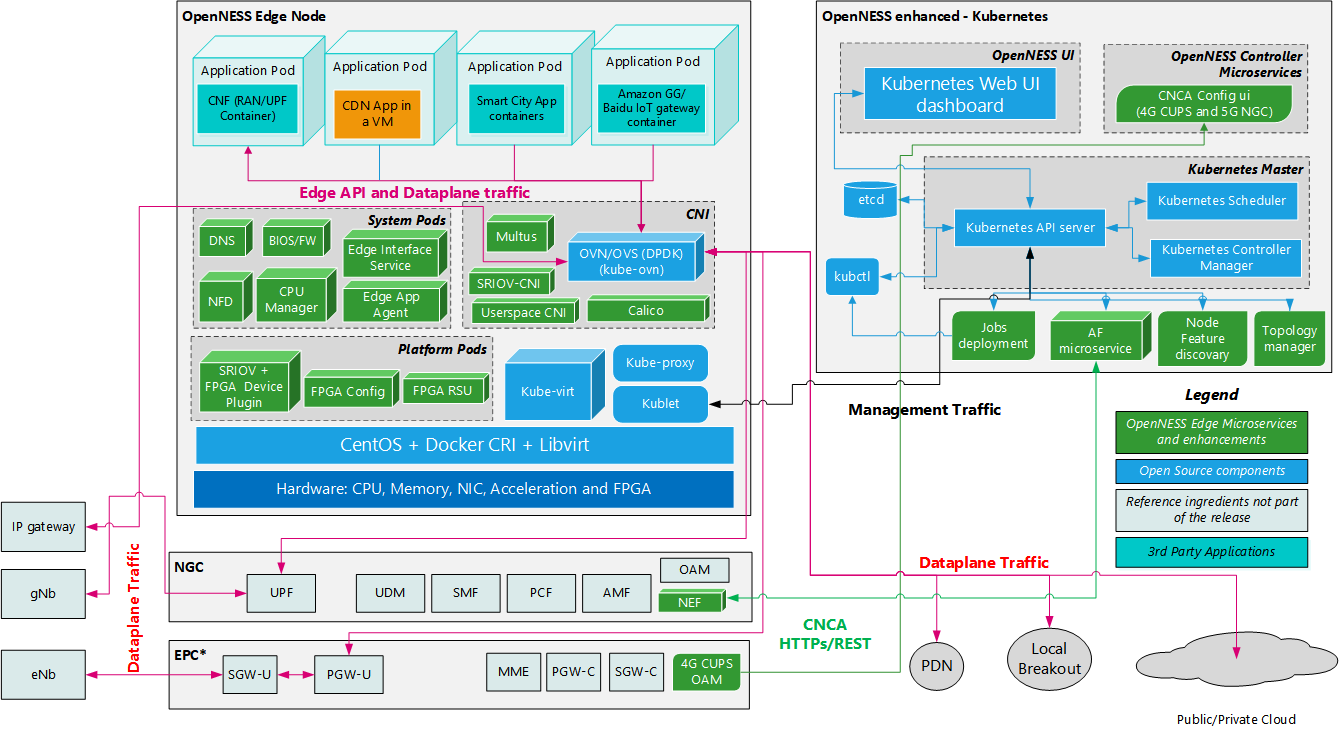
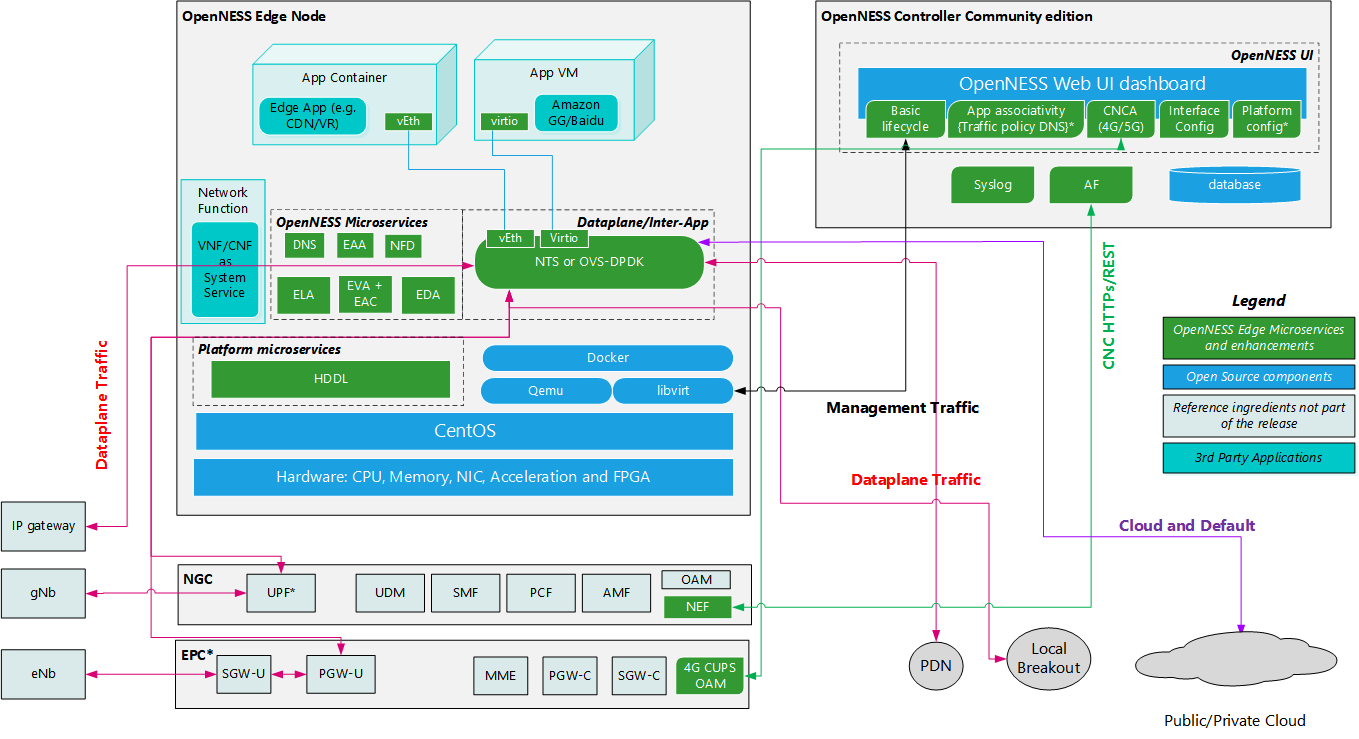
Arch update20032 (#204)

diff --git a/doc/architecture.md b/doc/architecture.md
@@ -1,6 +1,6 @@
 ```text
 SPDX-License-Identifier: Apache-2.0
-Copyright (c) 2019 Intel Corporation
+Copyright (c) 2020 Intel Corporation
 ```
 
 # OpenNESS Architecture and Solution overview
@@ -9,8 +9,8 @@ Copyright (c) 2019 Intel Corporation
     - [Key Terminologies defining OpenNESS](#key-terminologies-defining-openness)
   - [Overview](#overview)
     - [OpenNESS Controller Community Edition](#openness-controller-community-edition)
-      - [Details of Edge Controller Microservices functionality in Native deployment mode:](#details-of-edge-controller-microservices-functionality-in-native-deployment-mode)
-      - [Details of Edge Controller Microservices functionality in Infrastructure deployment mode:](#details-of-edge-controller-microservices-functionality-in-infrastructure-deployment-mode)
+      - [Details of Edge Controller Microservices functionality in Native deployment mode](#details-of-edge-controller-microservices-functionality-in-native-deployment-mode)
+      - [Details of Edge Controller Microservices functionality in Infrastructure deployment mode](#details-of-edge-controller-microservices-functionality-in-infrastructure-deployment-mode)
       - [Edge Application Onboarding](#edge-application-onboarding)
         - [Application onboarding in OpenNESS Native deployment mode](#application-onboarding-in-openness-native-deployment-mode)
         - [Application onboarding in OpenNESS Infrastructure deployment mode](#application-onboarding-in-openness-infrastructure-deployment-mode)
@@ -25,6 +25,12 @@ Copyright (c) 2019 Intel Corporation
   - [Deployment Scenarios](#deployment-scenarios)
     - [On-Premises Edge Deployment Scenario](#on-premises-edge-deployment-scenario)
     - [Network Edge Deployment Scenario](#network-edge-deployment-scenario)
+  - [OpenNESS Support for Deployment flavors](#openness-support-for-deployment-flavors)
+    - [RAN node flavor](#ran-node-flavor)
+    - [Core node flavor](#core-node-flavor)
+    - [Application node flavor](#application-node-flavor)
+    - [OnPremises application node flavor](#onpremises-application-node-flavor)
+    - [OnPremises all-in-one node - CERA](#onpremises-all-in-one-node---cera)
   - [Enhanced Platform Awareness through OpenNESS](#enhanced-platform-awareness-through-openness)
   - [OpenNESS Edge Node Applications](#openness-edge-node-applications)
     - [Producer Application](#producer-application)
@@ -59,7 +65,7 @@ Because it is an open source platform, OpenNESS enables operators, ISVs, and OSV
 ### Key Terminologies defining OpenNESS 
 - **Orchestration**: Orchestration in the context of OpenNESS refers to exposing northbound APIs for Deploying, Managing, Automating the Edge compute cluster and Applications that run on the cluster. E.g. OpenNESS northbound APIs that can be used by Orchestrators like ONAP for managing the OpenNESS edge solution.  
 - **Edge Services**: Edge Services in the context of OpenNESS refers to the Applications that service end-user traffic and Applications that provide services to other Edge compute Applications. E.g. CDN is an Edge application that services end-user traffic whereas Transcoding services is an application that provides service to CDN application.  
-- **Network Functions**: Network Functions in the context of OpenNESS refers to typical Container Networking Functions (CNFs) that enable edge cloud deployment in Wireless access, Wireline and WiFi deployments. E.g. 5G UPF is as CNF supports steering application traffic towards edge cloud applications, gNodeB that servers User equipment (UE) in 5G NR millimeter wave or Sub6 deployments etc. 
+- **Network Functions**: Network Functions in the context of OpenNESS refers to typical Container Networking Functions (CNFs) that enable edge cloud deployment in Wireless access, Wireline and WiFi deployments. E.g. 5G UPF is as CNF supports steering application traffic towards edge cloud applications, gNodeB that serves User equipment (UE) in 5G NR millimeter wave or Sub6 GHz deployments etc. 
 - **Network platform**: Network platform in the context of OpenNESS refers to nodes that are deployed in Network or On-Premises edge compute processing. These are typically COTS platforms which can host both Applications and VNFs. 
 - **Access technologies**: Access technologies in the context of OpenNESS refers to various types of traffic that OpenNESS solution can be handled. They include 5G, LTE (GTP/IP), Wireline (IP) and Wifi (IP).  
 - **Multi Cloud**: Multi Cloud in the context of OpenNESS refers to support in OpenNESS to host multiple Public or Private cloud application on the same node or in the OpenNESS compute cluster. These cloud applications can come from e.g. Amazon AWS Greengrass, Baidu cloud etc. 
@@ -107,7 +113,7 @@ Hence OpenNESS Controller deployment is described in these two modes:
 -  <b>OpenNESS Native deployment</b>: OpenNESS deployed using controller which interfaces NFV infrastructure directly (libvirt/docker runtime)
 -  <b>OpenNESS Infrastructure deployment</b>: OpenNESS deployed using Kubernetes as an orchestrator 
 
-#### Details of Edge Controller Microservices functionality in Native deployment mode: 
+#### Details of Edge Controller Microservices functionality in Native deployment mode 
 - **Web UI front end**: Reference HTML5 based web front end for Administrator management of Edge Nodes.
 - **User account management**: Create administrator and user accounts for Edge Node management. 
 - **Edge compute application catalogue**: Provide capability of adding applications to Controller catalogue. 
@@ -117,21 +123,21 @@ Hence OpenNESS Controller deployment is described in these two modes:
   - Configuration of interfaces and microservices on Edge Nodes 
   - Configuration of traffic policy for the interfaces including Local Breakout (LBO) interface 
 - **Edge Application Lifecycle Management**: Support applications through their lifecycle: 
-  - Expose the silicon micro architecture features on CPU, Accelerator, Network interface etc. through  Enhanced Platform Awareness (EPA) framework to the applications for lower overhead and high performance execution. 
+  - Expose the silicon micro architecture features on CPU, HW Accelerator, Network interface etc. through  Enhanced Platform Awareness (EPA) framework to the applications for lower overhead and high performance execution. 
   - Deploy edge compute applications from the image repository 
   - Configure the Edge compute application specific Traffic policy 
   - Configure the Edge compute application specific DNS policy 
-- **Node Feature Discovery (NFD)**: Contains two microservice. One on the controller (master) and one on the edge nodes (worker). NFD workers gets the hardware and software features on the edge node and the information is passed on to the NFD Master on the controller node. This information can be used by the user to deploy the applications to the edge node which meets the resource requirement. This ensures the reliable performance.
-- **Enhanced Platform Awareness**: is a subsystem of the application life cycle management that provides users to provide the key hardware or software features that needs to be made available to the applications when deployed on the edge node. The user is presented with a key:Value pair to choose from the supported EPA features. NFD when combined with EPA provides powerful mechanism for deployment for achieving application performance reliability. 
+- **Node Feature Discovery (NFD)**: Contains two microservices. One on the controller (master) and one on the edge nodes (worker). NFD workers gets the hardware and software features on the edge node and the information is passed on to the NFD Master on the controller node. This information can be used by the user to deploy the applications to the edge node which meets the specific resource requirement. This ensures  reliable performance.
+- **Enhanced Platform Awareness**: is a subsystem of the application life cycle management that enables users to provide key hardware or software features that needs to be made available to the applications when deployed on the edge node. The user is presented with a key:Value pair to choose from the supported EPA features. NFD when combined with EPA provides a powerful mechanism for achieving application performance reliability. 
 - **Edge virtualization infrastructure management**: Use underlying virtualization infrastructure, whether directly via libvirt or Docker, or indirectly via Kubernetes, to manage the Edge Node platform and applications. 
 - **Telemetry**: Get basic edge compute microservices telemetry from connected Edge Nodes.
 
 The Controller microservices make extensive use of the Go programming language and its runtime libraries.
 
-#### Details of Edge Controller Microservices functionality in Infrastructure deployment mode:
+#### Details of Edge Controller Microservices functionality in Infrastructure deployment mode
 - **Core Network Configuration**: Configure the access network (e.g., LTE/CUPS, 5G) control plane. 
 - **Telemetry**: Get basic edge compute microservices telemetry from connected Edge Nodes.
-- **Microservices and Enhancements for K8s master**: Set of microservice as daemon set deployed on Master to enable Cloudnative deployment. E.g. NFD (master), SRI-OV device plugin, etc. 
+- **Microservices and Enhancements for K8s master**: Set of microservice as daemon set deployed on Master to enable deployment. E.g. NFD (master), SRI-OV device plugin, etc. 
 
 OpenNESS when deployed using Kubernetes supports key features that expose the silicon micro architecture features of the platform to the applications and network functions  to achieve better and reliable performance. This will be described in the Enhanced Platform Awareness (EPA) section later in the document. 
 
@@ -157,7 +163,7 @@ OpenNESS Controller is used to onboard an application to the OpenNESS Edge Node.
 5. User starts the Application, which kick starts the Container/Pod/VM. 
 
 ##### Application onboarding in OpenNESS Infrastructure deployment mode
-OpenNESS users need to use the Kubernetes Master to onboard and application to the OpenNESS Edge Node. OpenNESS support applications that can run in a docker container. Docker image tar.gz. The image source can be a docker registry or HTTPS image repository. The image repository can be an external image server or one that can be deployed on the controller. The figure below shows the steps involved in application onboarding.  
+OpenNESS users need to use the Kubernetes Master to onboard and application to the OpenNESS Edge Node. OpenNESS support applications that can run in a docker container (Docker image tar.gz). The image source can be a docker registry or HTTPS image repository. The image repository can be an external image server or one that can be deployed on the controller. The figure below shows the steps involved in application onboarding.  
 
  ![Edge Application Onboarding](arch-images/openness_k8sapponboard.png)
 
@@ -195,17 +201,12 @@ Details of Edge Node Microservices functionality:
 - **Edge Node Virtualization infrastructure**: Receive commands from the controller/NFV infrastructure managers to start and stop Applications. This functionality is implemented in the EVA (Edge virtualization Agent) microservice and is implemented in Go lang. 
 - **Edge application traffic policy**: Interface to set traffic policy for application deployed on the Edge Node. This functionality is implemented in the EDA (Edge Dataplane Agent) microservice and is implemented in Go lang. 
 - **Dataplane Service**: Steers traffic towards applications running on the Edge Node or the Local Break-out Port.   
-   
-  <b>OVN/OVS-DPDK</b>
-  - The primary dataplane that is supported in native mode is OVN/OVS-DPDK. 
-  - OVN manages the IP address allocated to the applications 
-  - In this mode both north-south and east-west traffic is supported by OVS-DPDK.   
-  - vEth pair is used as interface for container and vitrio for VMs 
-  
-  <b>NTS</b>
-  - As a secondary option specifically targeted at S1u deployment NTS is supported. 
+ 
+   <b>NTS</b>
+  - NTS (Network Transport Service) is the primary dataplane supported  
+  - Its mainly developed to support S1u deployments 
   - When NTS is used as Dataplane OVS-DPDK can be used as inter-app service. 
-  - Utilizing the Data Plane NTS (Network Transport Service), which runs on every Edge Node. It is implemented in C lang using DPDK for high performance IO. This is the recommended dataplane when incoming and outgoing flows is mix of pure IP + S1u (GTPu). 
+  - Utilizing the Data Plane NTS (Network Transport Service), which runs on every Edge Node. It is implemented in C lang using DPDK for high performance IO. This is the recommended dataplane when incoming and outgoing flows are a mix of pure IP + S1u (GTPu). 
     - Provide Reference ACL based Application specific packet tuple filtering 
     - Provide reference GTPU base packet learning for S1 deployment 
     - Provide reference Simultaneous IP and S1 deployment 
@@ -219,6 +220,16 @@ Details of Edge Node Microservices functionality:
     - Dedicated interface created for dataplane based on vhost-user for VM, dpdk-kni for Containers
     - Container or VM default Interface can be used for Inter-App, management and Internet access from application 
     - Dedicated OVS-DPDK interface for inter-apps communication can be created in case of On-Premises deployment. 
+  
+<b>OVN/OVS-DPDK</b>
+  - The secondary dataplane that is supported in native mode is OVN/OVS-DPDK. 
+  - For non-S1u deployments this should be the dataplane of choice 
+  - OVN manages the IP addresses allocated to the applications 
+  - In this mode both north-south and east-west traffic is supported by OVS-DPDK.   
+  - vEth pair is used as interface for container and vitrio for VMs 
+
+>Note: In the future releases OVN/OVS-DPDK will be primary dataplane supported. 
+
 - **Application Authentication**: Ability to authenticate an Edge compute application deployed from the Controller so that application can avail/call Edge Application APIs. Only applications that intend to call the Edge Application APIs need to be authenticated. TLS certificate based Authentication is implemented. 
 
 ![OpenNESS Application Authentication](arch-images/openness_appauth.png)
@@ -245,8 +256,8 @@ Details of Edge Node Microservices functionality:
     - Implemented using [kube-ovn](https://github.com/alauda/kube-ovn)
     - Provides IP 5-tuple based flow filtering and forwarding
     - Same Interface can be used for Inter-App, management, Internet and Dataplane interface
-- **Application Authentication**: Ability to authenticate Edge compute application deployed from Controller so that application can avail/call Edge Application APIs. Only applications that intend to call the Edge Application APIs need to be authenticated. TLS certificate based Authentication is implemented. 
-- **Microservices and Enhancements for node**: Set of microservice as daemon/replica set deployed on node to enable Cloudnative deployment. E.g. NFD (worker), multus, SRI-OV device plugin, etc. 
+- **Application Authentication**: Ability to authenticate Edge compute application deployed from the Controller so that the application can avail/call of Edge Application APIs. Only applications that intend to call the Edge Application APIs need to be authenticated. TLS certificate based Authentication is implemented. 
+- **Microservices and Enhancements for node**: Set of microservice as daemon/replica set deployed on node to enable Cloud Native deployment. E.g. NFD (worker), multus, SRI-OV device plugin, etc. 
 
 ![OpenNESS Application Authentication](arch-images/openness_k8sappauth.png)
 
@@ -272,7 +283,7 @@ API endpoint for edge applications is implemented in the EAA (Edge Application A
 - **Edge Node telemetry**: Utilizing the rsyslog, all OpenNESS microservices send telemetry updates which includes the logging and packet forwarding statistics data from the dataplane. This is also the mechanism that is encouraged for OpenNESS users for Debugging and Troubleshooting. 
 
 **OpenNESS Edge Node Resource usage**: 
-- All non-critical/non-realtime microservices on the OpenNESS Edge Node execute OS core typically Core 0.
+- All non-critical/non-realtime microservices on the OpenNESS Edge Node execute on OS core typically Core 0.
 - Dataplane NTS and DPDK PMD thread requires a dedicated core/thread for high performance.
 - Dataplane OVS-DPDK requires dedicated core/thread for high performance.
   - DPDK library is used for the dataplane implementation 1G/2M hugepages support is required on the host. 
@@ -325,7 +336,7 @@ Certain On-Premises Edge deployments might not have a dedicated infrastructure m
   
 ![On-Premises Edge compute](arch-images/openness_onprem.png)
 
-_Figure - On-Premises Edge Deployment Scenario without external Orchestrator_
+_Figure - On-Premises Edge Deployment Scenario without external Orchestrator_ 
 
 ### Network Edge Deployment Scenario
 The network edge deployment scenario is depicted in Figure below. In this scenario, Edge Nodes are located  in facilities owned by a network operator (e.g., a central office, Regional Data Center), and to be part of a data network including access network (4G, 5GNR), core network (EPC, NGC), and edge computing infrastructure owned by a network operator. For economy of scale, this network is likely to be multi-tenant, and to be of very large scale (a national network operator may have thousands, or tens of thousands, of Edge Nodes). This network is likely to employ managed virtualization (e.g., OpenStack, Kubernetes) and be integrated with an operations and support system through which not only the edge computing infrastructure, but the network infrastructure, is managed.
@@ -344,6 +355,36 @@ In this mode OVN/OVS can support:
 
 _Figure - Network Edge Deployment Scenario with OVS as dataplane_
 
+## OpenNESS Support for Deployment flavors  
+Having looked at the Deployment scenarios let us now look a the individual Deployment flavors supported by OpenNESS. Deployment flavors here refers to the types of nodes that typically are deployed at the edge using OpenNESS. Flavors are mainly categorized by the workloads that is running on the node. Below are the example of Flavors supported on the network edge:
+
+### RAN node flavor 
+RAN node here typically refers to RAN DU and CU 4G/5G nodes deployed on the edge or far edge. In some cases DU might be integrated in to the radio. The example RAN deployment flavor uses FlexRAN as reference DU. 
+
+![RAN node flavor](arch-images/openness-flexran.png)
+
+### Core node flavor 
+Core nodes here typically refers to User plane and Control plane Core workloads for 4G and 5G deployed on the edge and  central location. In most of the edge deployments UPF/SPGW-U plane is located on the edge along with the applications and services. For the ease of representation the diagram shows how OpenNESS can be used to deploy both User plane and Control plane Core nodes. 
+
+![Core node flavor](arch-images/openness-core.png)
+
+### Application node flavor 
+Application nodes here typically refers to nodes running edge applications and services. The Applications can be Smart City, CDN, AR/VR, Cloud Gaming, etc. In the example flavor below Smart City application pipeline is used.  
+
+![Application node flavor](arch-images/openness-ovc.png)
+
+Below are the example flavors for the On-premises deployment: 
+
+### OnPremises application node flavor 
+OnPremises node typically host userplane core network function and edge applications.   
+
+![OnPremises application node flavor](arch-images/openness-onprem.png)
+
+### OnPremises all-in-one node - CERA 
+CERA (Converged Edge Reference Architecture) is another flavor of OnPremises where along with userplane even the Wireless access/RAN is part of the node. 
+
+![OnPremises CERA node flavor](arch-images/openness-cera.png)
+
 ## Enhanced Platform Awareness through OpenNESS 
 Enhanced Platform Awareness (EPA) represents a methodology and a related suite of changes across multiple layers of the orchestration stack targeting intelligent platform capability, configuration & capacity consumption. EPA features include Huge Pages support, NUMA topology awareness, CPU pinning, integration with OVS-DPDK, support for I/O Pass-through via SR-IOV, HDDL support, FPGA resource allocation support and many others.
 
@@ -353,8 +394,8 @@ OpenNESS provides a one-stop solution to integrate key EPA features that are cri
 
 Edge Compute EPA- feature for Network edge and availability for CNF, Apps and Services on the edge
 - CPU Manager: Support deployment of a POD with dedicated pinning using CPU manager for K8s
-- SRIOV NIC: Support deployment of a POD with dedicated SRIOV Virtual Function (VF) from Network Interface Card (NIC)
-- SRIOV FPGA: Support deployment of a POD with dedicated SRIOV VF from FPGA (Demonstrated through Intel® FPGA Programmable Acceleration Card PAC N3000 with FPGA IP Wireless 5G FEC/LDPC)
+- SR-IOV NIC: Support deployment of a POD with dedicated SR-IOV Virtual Function (VF) from Network Interface Card (NIC)
+- SR-IOV FPGA: Support deployment of a POD with dedicated SR-IOV VF from FPGA (Demonstrated through Intel® FPGA Programmable Acceleration Card PAC N3000 with FPGA IP Wireless 5G FEC/LDPC)
 - Topology Manager: Supports k8s to manage the resources allocated to workloads in a Non-uniform memory access (NUMA) topology-aware manner
 - BIOS/Firmware Configuration service: Use intel syscfg tool to build a Pod that is scheduled by K8s as a job that configures the BIOS/FW with the given specification
 - Hugepages: Support for allocation of 1G/2M huge pages to the Pod. Huge page allocation is done through K8s
@@ -368,8 +409,8 @@ Edge Compute EPA- feature for Network edge and availability for CNF, Apps and Se
 Edge Compute EPA- feature for On-Premises edge 
 - Support for allocation of Intel® Movidius™ VPUs to the OnPrem applications running in Docker containers.
 - Support for dedicated core allocation to application running as VMs or Containers 
-- Support for dedicated SRIOV VF allocation to application running in VM or containers 
-> Note: when using SRIOV VFs in containers the VF is bound to the kernel driver. 
+- Support for dedicated SR-IOV VF allocation to application running in VM or containers 
+> Note: when using SR-IOV VFs in containers the VF is bound to the kernel driver. 
 - Support for system resource allocation into the application running as container 
   - Mount point for shared storage 
   - Pass environment variables 
@@ -377,13 +418,13 @@ Edge Compute EPA- feature for On-Premises edge
 - Non-Privileged Container: Support deployment of non-privileged containers  
 
 ## OpenNESS Edge Node Applications
-OpenNESS Applications are onboarded and provisioned on the Edge Node through OpenNESS Controller in Native mode and K8s master in K8s mode. In K8s mode OpenNESS also supports onboarding of the Network Functions like RAN, Core, Firewall, etc. 
+OpenNESS Applications are onboarded and provisioned on the Edge Node through OpenNESS Controller in Native mode, and through K8s master in K8s mode. In K8s mode OpenNESS also supports onboarding of the Network Functions like RAN, Core, Firewall, etc. 
 
 OpenNESS application can be categorized in different ways depending on the scenarios. 
 
 - Depending on the OpenNESS APIs support 
   - Edge Cloud applications: Applications calling EAA APIs for providing or consuming services on the edge compute along with servicing end-users traffic 
-  - Unmodified cloud applications: Applications not availing of any services on the edge compute just servicing end-user traffic 
+  - Unmodified cloud applications: Applications not availing of any services on the edge compute, just servicing end-user traffic 
 
 - Depending on the Application Execution platform 
   - Application running natively on Edge Node in a VM/Container provisioned by the OpenNESS controller 
@@ -501,7 +542,7 @@ OpenNESS controller community edition supports configuration of the 5G Applicati
 
 _Figure - OpenNESS 5G end-to-end test setup_
 
-Following are the features supported by 5G Components of OpenNESS (AF, NEF, CNCA, WEB UI)
+Features supported by 5G Components of OpenNESS (AF, NEF, CNCA, WEB UI):
 
 Traffic Influence Submission API support : 3GPP 23.502  Sec. 52.6.7 Traffic Influence Service
 -	AF: Added support for traffic influence submission northbound API 
@@ -634,6 +675,6 @@ _Figure - Setting up OpenNESS_
 - UPF: User Plane Function
 - DN: Data Network
 - AF: Application Function
-- SRIOV: Single Root I/O Virtualization
+- SR-IOV: Single Root I/O Virtualization
 - NUMA: Non-Uniform Memory Access
 - COTS: Commercial Off-The-Shelf 
